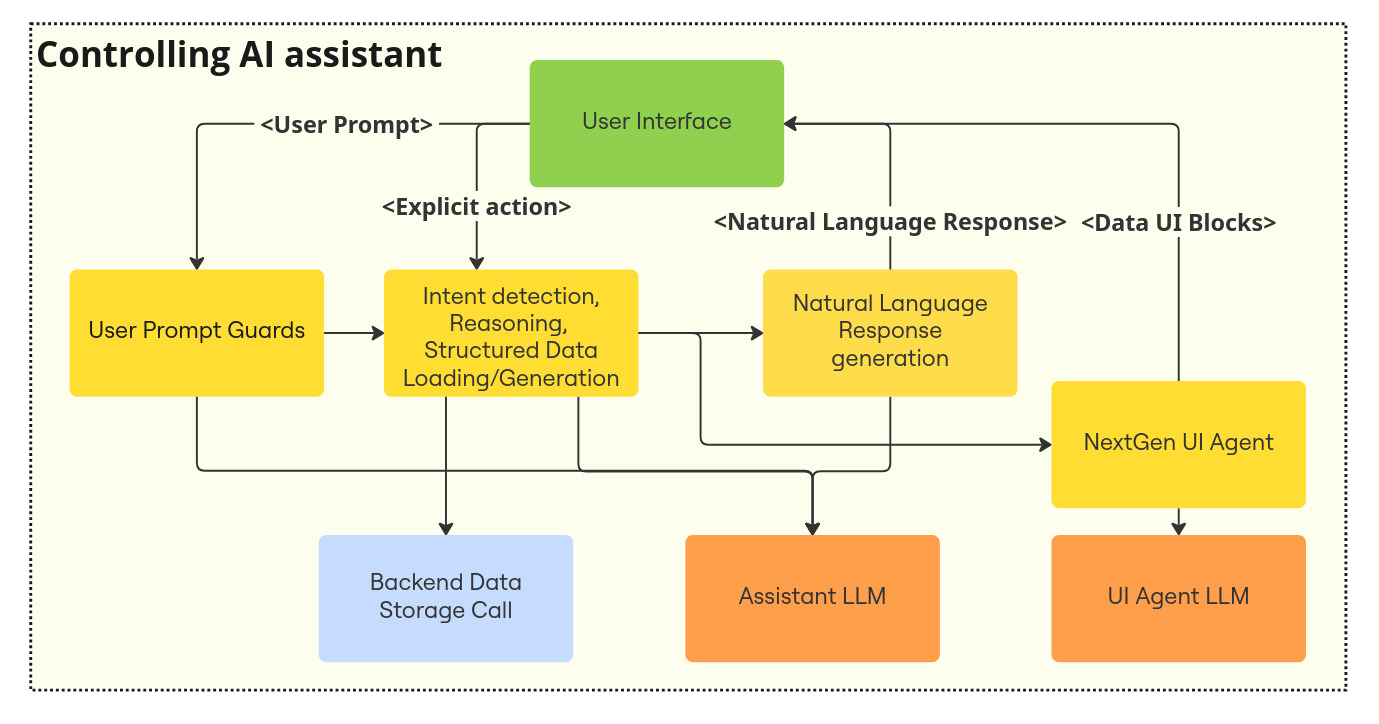
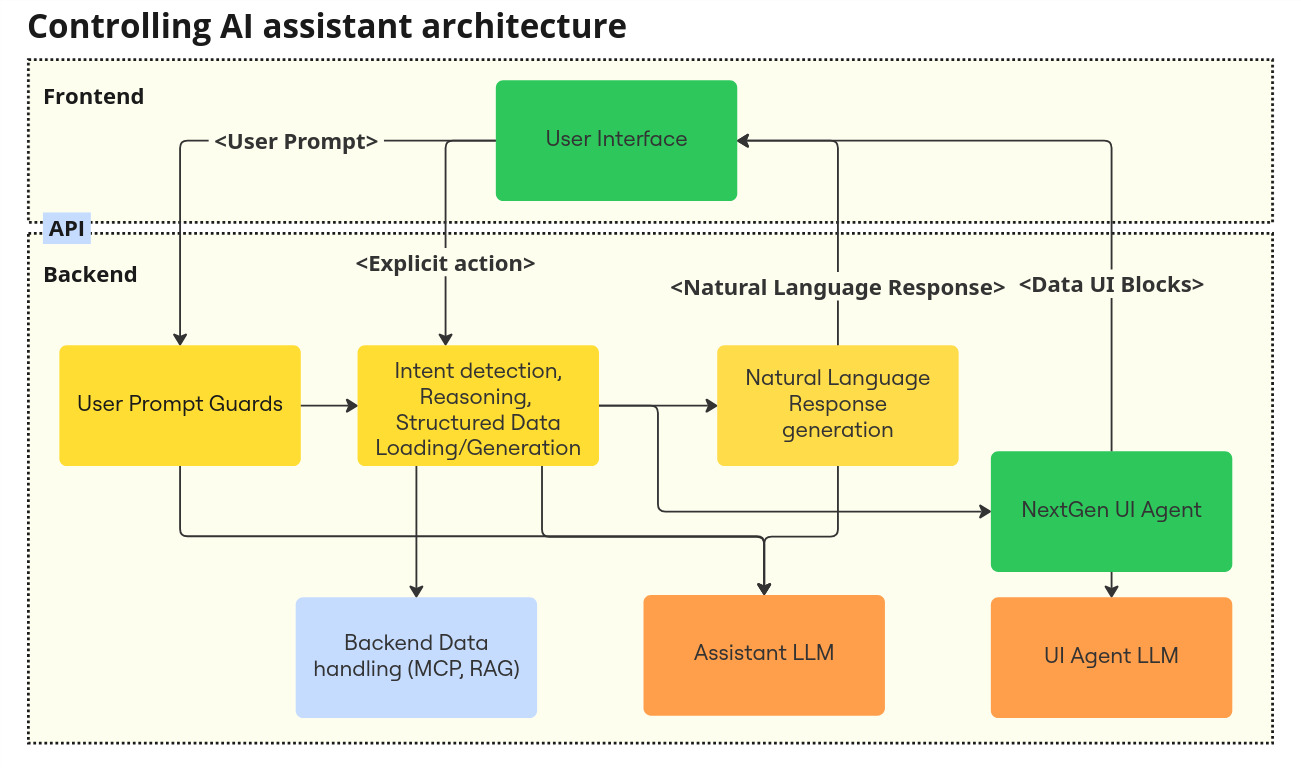
docs: architecture docs updated

Changed region(s): [[0.0, 0.0, 0.9839, 0.9724], [0.4612, 0.4558, 0.5534, 0.4862], [0.9531, 0.1823, 0.9839, 0.2127]]

diff --git a/docs/guide/architecture.md b/docs/guide/architecture.md
@@ -2,7 +2,9 @@
 
 This guide shows how to use *NextGen UI Agent* in your application.
 
-In short, *UI Agent* takes `User Prompt` and [`Structured Data`](./input_data.md) relevant to this prompt as an input, and generates UI component to visualize that piece of data to the user. We call it `Data UI Block`. AI (LLM) is used in this step, to understand the `User Prompt` and data structure and select the best UI component and displayed data values.
+In short, *UI Agent* takes `User Prompt` and [`Structured Data`](./input_data.md) relevant to this prompt as an input, and generates UI component to visualize that piece of data to the user. We call it `Data UI Block`. AI (LLM) is used in this step, to understand the `User Prompt` and data structure and select the best UI component and displayed data values. 
+
+In the future, this agent will also maintain `UI state` and view layouts to keep UI and flows consistent, handle personalized values formating, and many other features. Stay tuned ;-)
 
 Example of the generated `Data UI Block`:
 ![Example of the Data UI Block](../img/data_ui_block_card.png "Example of the Data UI Block")
@@ -17,11 +19,14 @@ Example of the *Controlling assistant* architecture:
 ![Example of the Controlling assistant architecture](../img/architecture_assistant_flow.jpg "Example of the Controlling assistant architecture")
 
 *Controlling assistant* has to load structured data relevant for the `User Prompt` first, before calling the *UI Agent*. 
-It can do it directly, for example using `LLM Tools Calling`, or it can call *Data providing agent* in case of Multi-Agent architecture. It can even generate that data itself in process of Reasoning or user's intent detection.
-*Controlling assistant* can load more pieces of data for one conversation turn, and send them all to the *UI Agent* to generate more `AI UI Blocks` to be shown to the user in the assistant's GUI.
+It can do it directly, for example using `LLM Tools Calling`/`MCP`, or it can call *Data providing agent* in case 
+of Multi-Agent architecture. It can even generate that data itself in process of Reasoning or user's intent detection and processing.
+*Controlling assistant* can load more pieces of data for one conversation turn, and send them all to the *UI Agent* to generate 
+more `AI UI Blocks` to be shown to the user in the assistant's GUI.
 
 *Controlling assistant* can also generate *Natural language response* based on this data and deliver it to the user through GUI or Voice user interface.
-To follow vision of the *NextGen UI*, this natural language response should not repeat visualized data, but rather provide data summarizations, insights based on the data, proposals of the user actions, etc.
+To follow vision of the *NextGen UI*, this natural language response should not repeat visualized data, but rather provide 
+data summarizations, insights based on the data, proposals of the user actions, etc.
 *UI Agent* itself has nothing to do with this response generation, it is responsibility of the *Controlling Assistant* to provide it.
 
 Example mockup of the *Controlling assistant* GUI:
